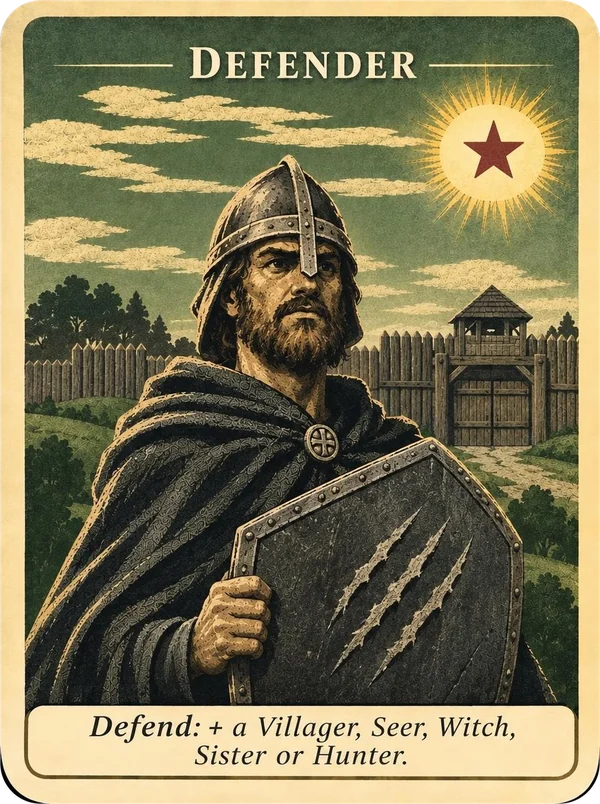
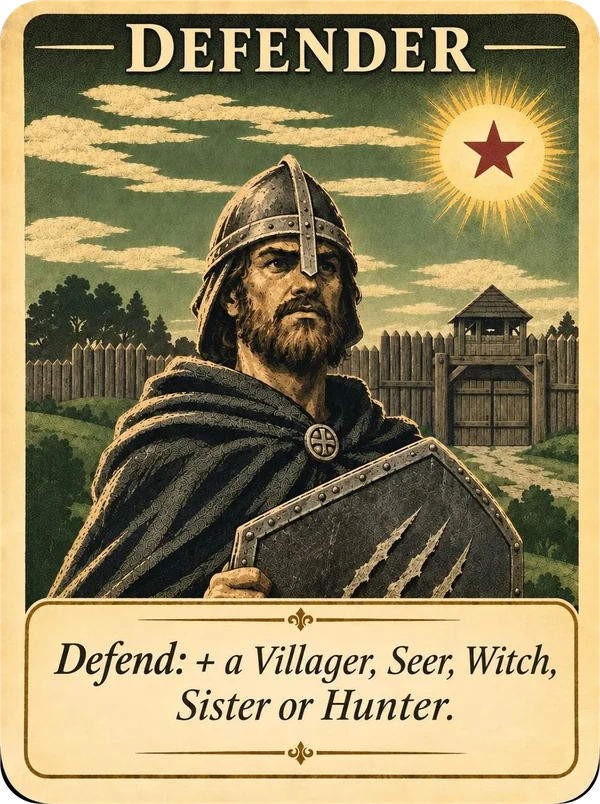
Weirdwolves: larger-text art for Hunter, Defender, Witch, Cupid, Werewolf
Replaces the five card images (same file names) with versions whose rule
text is larger. The Witch's card text now says "poisoned", as the art does.

Claude-Session: https://claude.ai/code/session_01TG8fVB5frUjQbZRfx1xZAy

diff --git a/static/js/model.js b/static/js/model.js
@@ -558,7 +558,7 @@ export function werewolfProject() {
     card('villager', 'Villager', '🧑🌾', 1, 36, '#efe4c8', 'Value 1', 'Mob: 5 Villagers.'),
     card('seer', 'Seer', '🔮', 2, 5, '#c9b8ee', 'Value 2', 'Vision: a Seer + 3 different cards.'),
     card('werewolf', 'Werewolf', '🐺', 3, 16, '#b08a6e', 'Value 3', 'Dinner: a Werewolf + 1 lone Villager.'),
-    card('witch', 'Witch', '🧙', 3, 3, '#9cc58c', 'Value 3', 'Potions: Witch + Villager (saved) + Werewolf (killed).'),
+    card('witch', 'Witch', '🧙', 3, 3, '#9cc58c', 'Value 3', 'Potions: Witch + Villager (saved) + Werewolf (poisoned).'),
     card('cupid', 'Cupid', '💘', 0, 3, '#f6c2d6', 'Value 0', 'Lovers: Cupid + any 2 cards.'),
     card('alpha-wolf', 'Alpha Wolf', '🌕', 4, 1, '#8c7a9e', 'Value 4', 'Pack: Alpha Wolf + 2 Werewolves.'),
     card('defender', 'Defender', '🛡', 'same', 3, '#a9c7e3', 'Wild: worth the best card it is with', 'Defend: a Defender + a Villager, Seer, Witch, Sister or Hunter.'),
